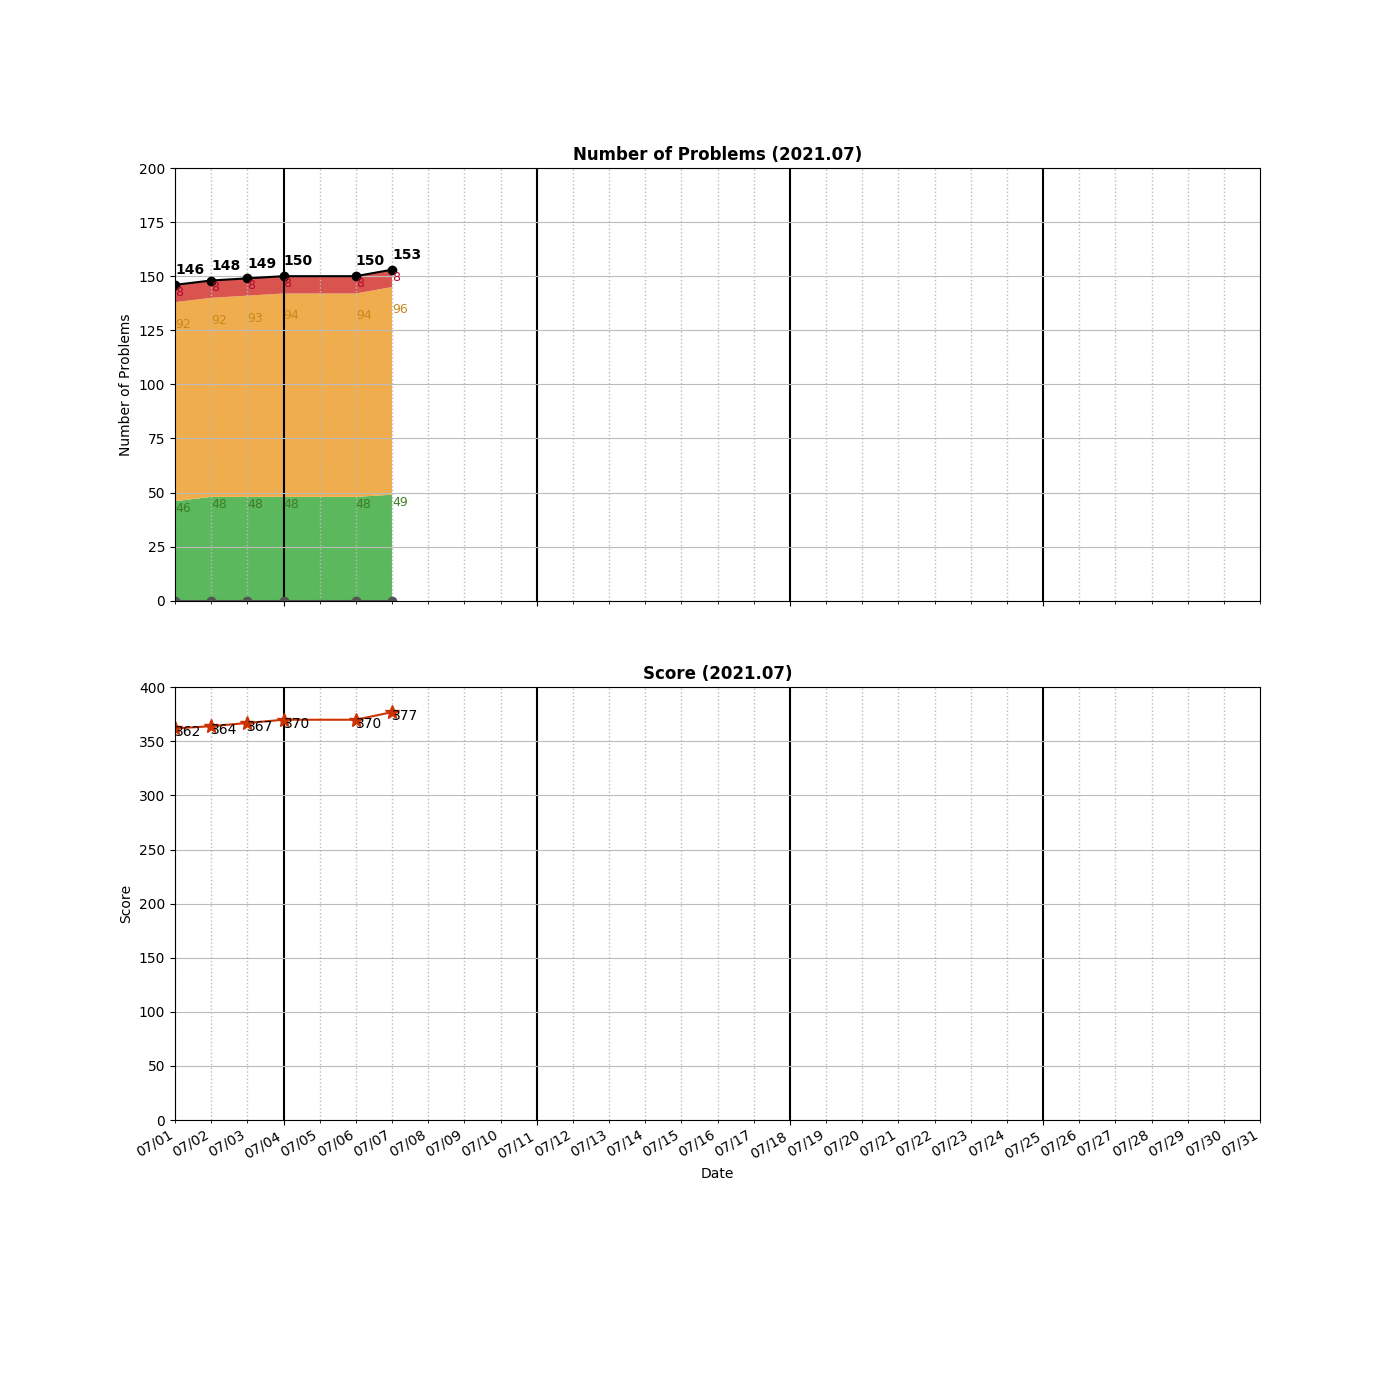
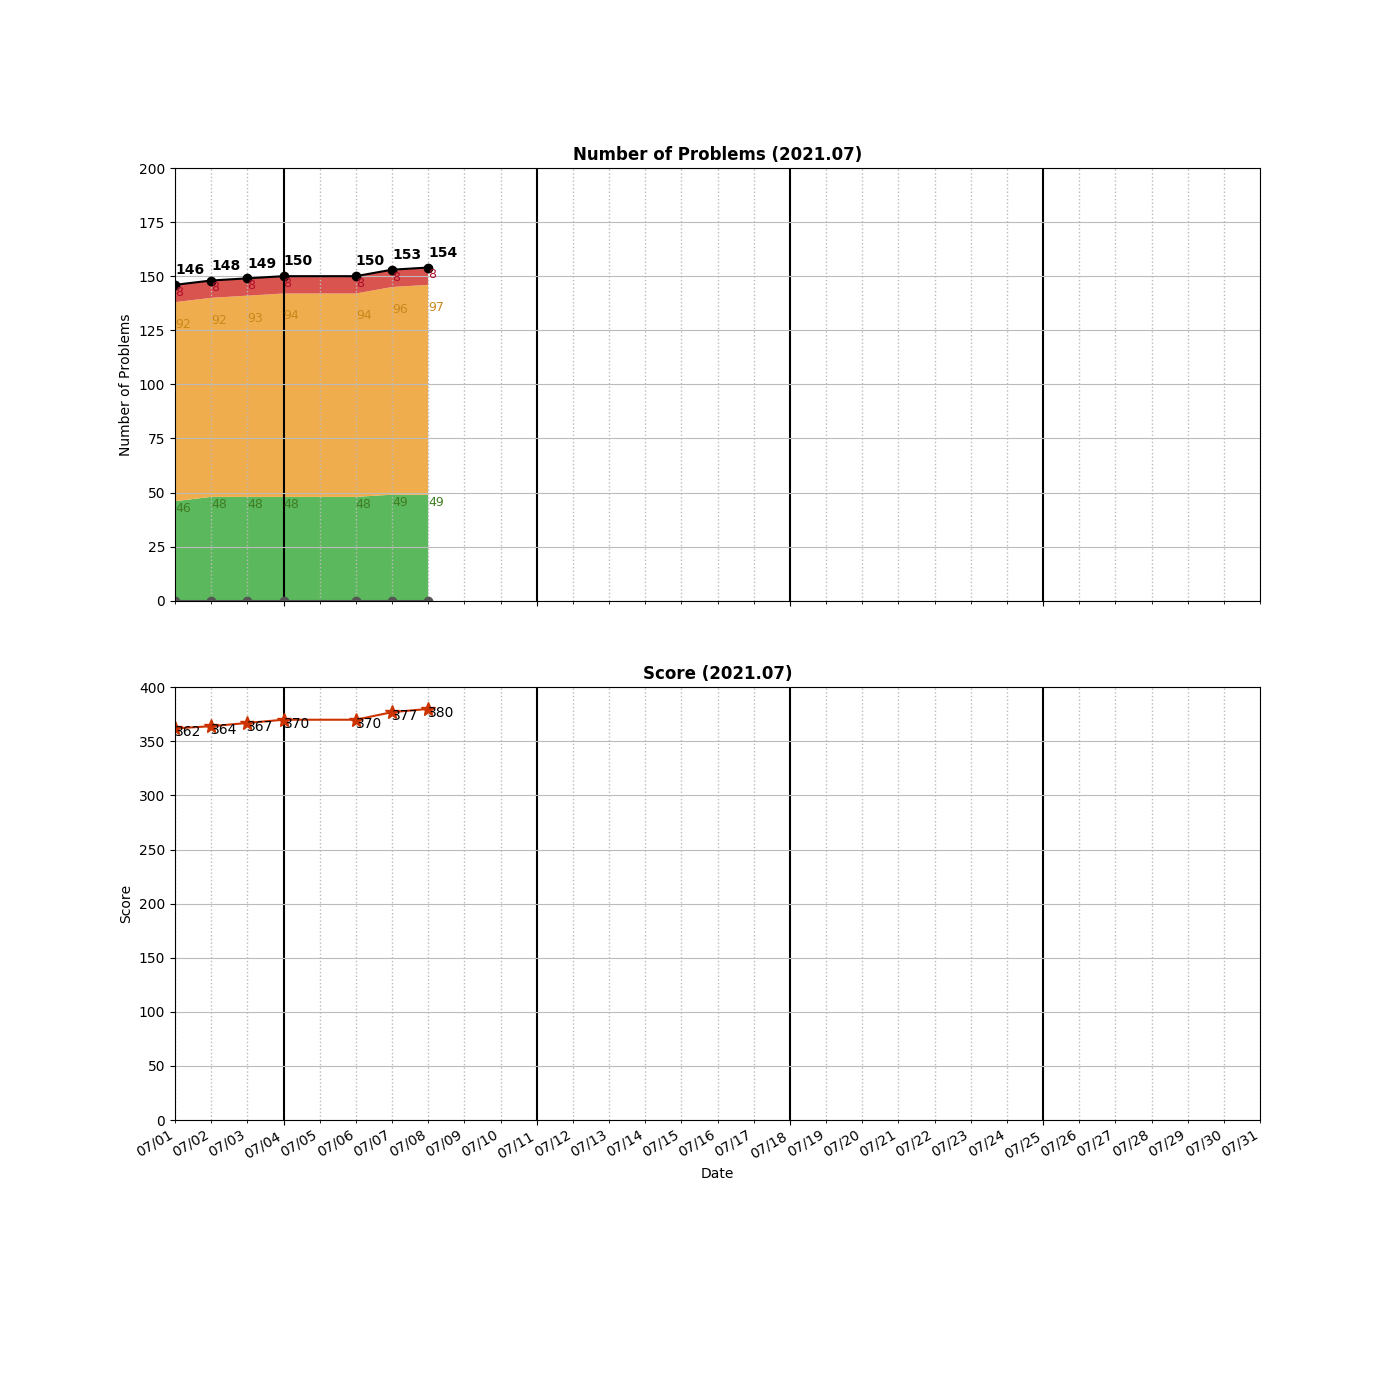
Added __0841__Keys and Rooms.py

Changed region(s): [[0.2764, 0.1843, 0.3071, 0.43]]

diff --git a/algo/DFS/__0841__Keys and Rooms.py b/algo/DFS/__0841__Keys and Rooms.py
@@ -1,0 +1,26 @@
+class Solution:
+    def canVisitAllRooms(self, rooms: List[List[int]]) -> bool:
+        
+        if not rooms:
+            return []
+        
+        opened = [0] * len(rooms)
+        opened[0] = 1
+        visited = [0] * len(rooms)
+        visited[0] = 1
+        
+        self.traverse(rooms, 0, opened, visited)
+        numOpenedRoom = 0
+        for i in range(len(rooms)):
+            numOpenedRoom += opened[i]
+        return numOpenedRoom == len(rooms)
+    
+    def traverse(self, rooms, cur, opened, visited):
+        for key in rooms[cur]: 
+            if visited[key] == 1:
+                continue
+                
+            opened[key] = 1
+            visited[key] = 1
+            self.traverse(rooms, key, opened, visited)
+                

diff --git a/README.md b/README.md
@@ -60,6 +60,7 @@ algo
 │   ├── __0694__Number\ of\ Distinct\ Islands.py
 │   ├── __0695__Max\ Area\ of\ Island.py
 │   ├── __0784__Letter\ Case\ Permutation.py
+│   ├── __0841__Keys\ and\ Rooms.py
 │   ├── __1254__Number\ of\ Closed\ Islands.py
 │   ├── __1391__Check\ if\ There\ is\ a\ Valid\ Path\ in\ a\ Grid.py
 │   ├── __1593__Split\ a\ String\ Into\ the\ Max\ Number\ of\ Unique\ Substrings.py
@@ -179,7 +180,7 @@ algo
         ├── LinkedList.cpython-37.pyc
         └── UnrolledLinkedList.cpython-37.pyc
 
-19 directories, 159 files
+19 directories, 160 files
 
 =====================================
 ============= Local Repo ============
@@ -322,6 +323,7 @@ __0743__Network Delay Time.py
 __0784__Letter Case Permutation.py
 __0787__Cheapest Flights Within K Stops.py
 __0797__All Paths From Source to Target.py
+__0841__Keys and Rooms.py
 __0863__All Nodes Distance K in Binary Tree.py
 __0905__Sort Array By Parity.py
 __0912__Sort an Array.py
@@ -335,7 +337,7 @@ __1429__First Unique Number.py
 __1593__Split a String Into the Max Number of Unique Substrings.py
 __1905__Count Sub Islands.py
 =====================================
-Num of Python Practice:  150
+Num of Python Practice:  151
 
 
 =====================================
@@ -481,6 +483,7 @@ Num of Python Practice:  150
  0784 Letter Case Permutation
  0787 Cheapest Flights Within K Stops
  0797 All Paths From Source to Target
+ 0841 Keys and Rooms
  0863 All Nodes Distance K in Binary Tree
  0905 Sort Array By Parity
  0912 Sort an Array
@@ -496,10 +499,10 @@ Num of Python Practice:  150
  1905 Count Sub Islands
 =====================================
 Solved / Total (Easy)  :   49 /  503
-Solved / Total (Medium):   96 / 1015
+Solved / Total (Medium):   97 / 1015
 Solved / Total (Hard)  :    8 /  405
-Solved / Total (All)   :  153 / 1923
-Total Score            :  377
+Solved / Total (All)   :  154 / 1923
+Total Score            :  380
 =====================================
 
 ```
